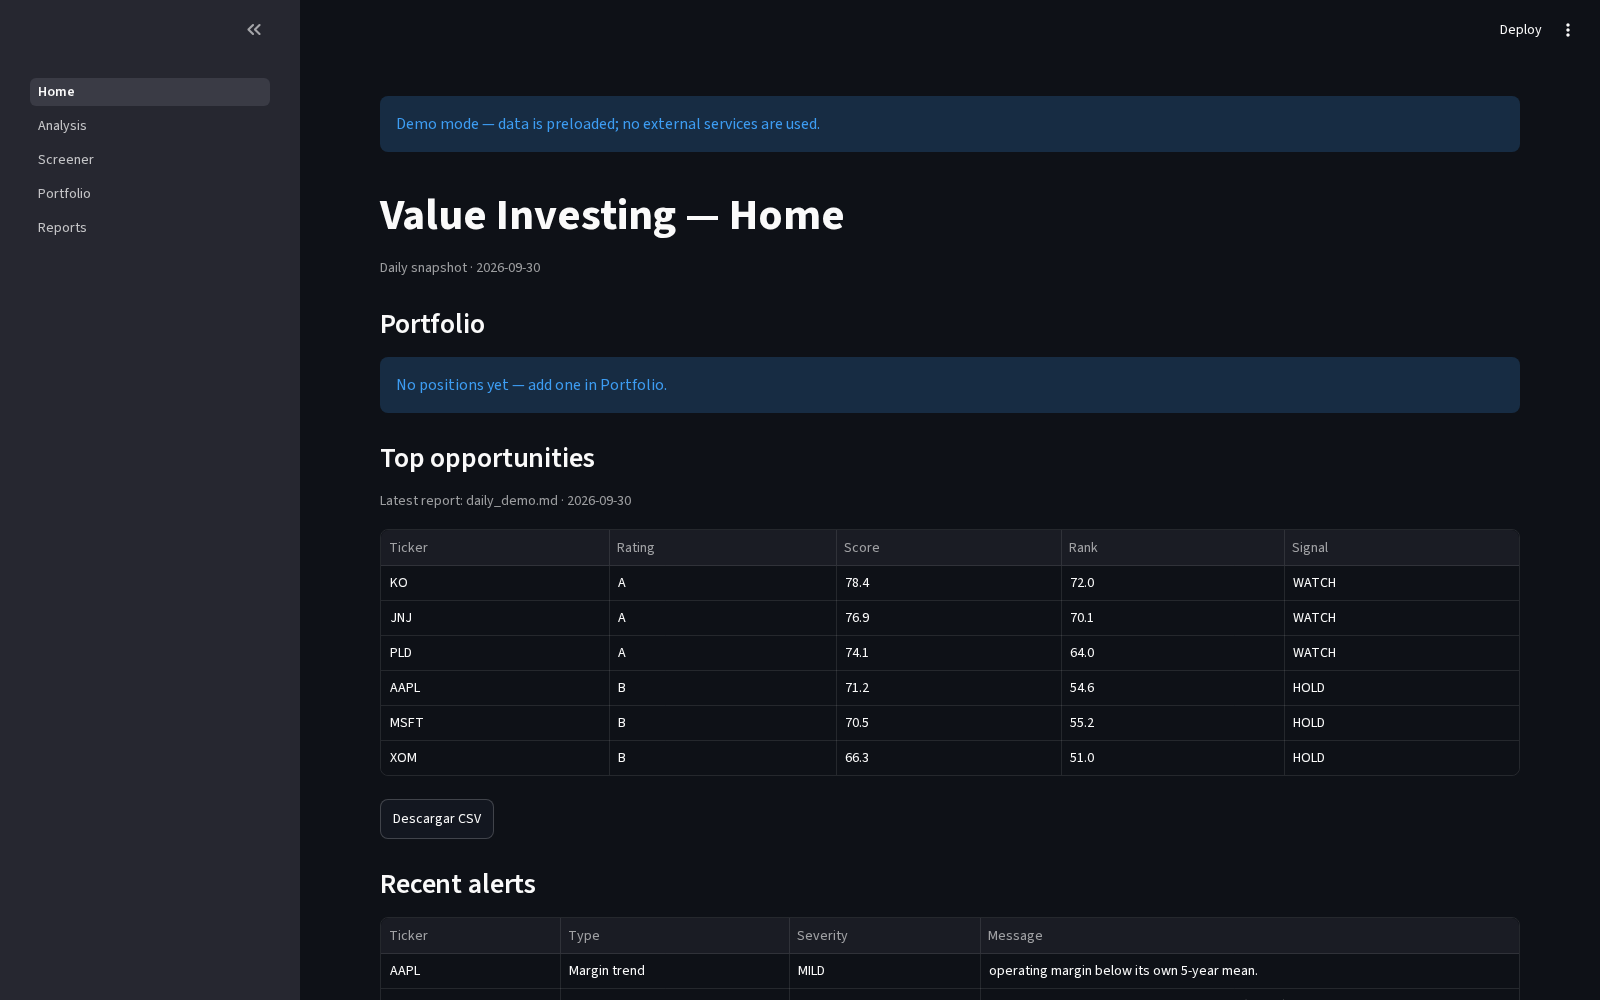
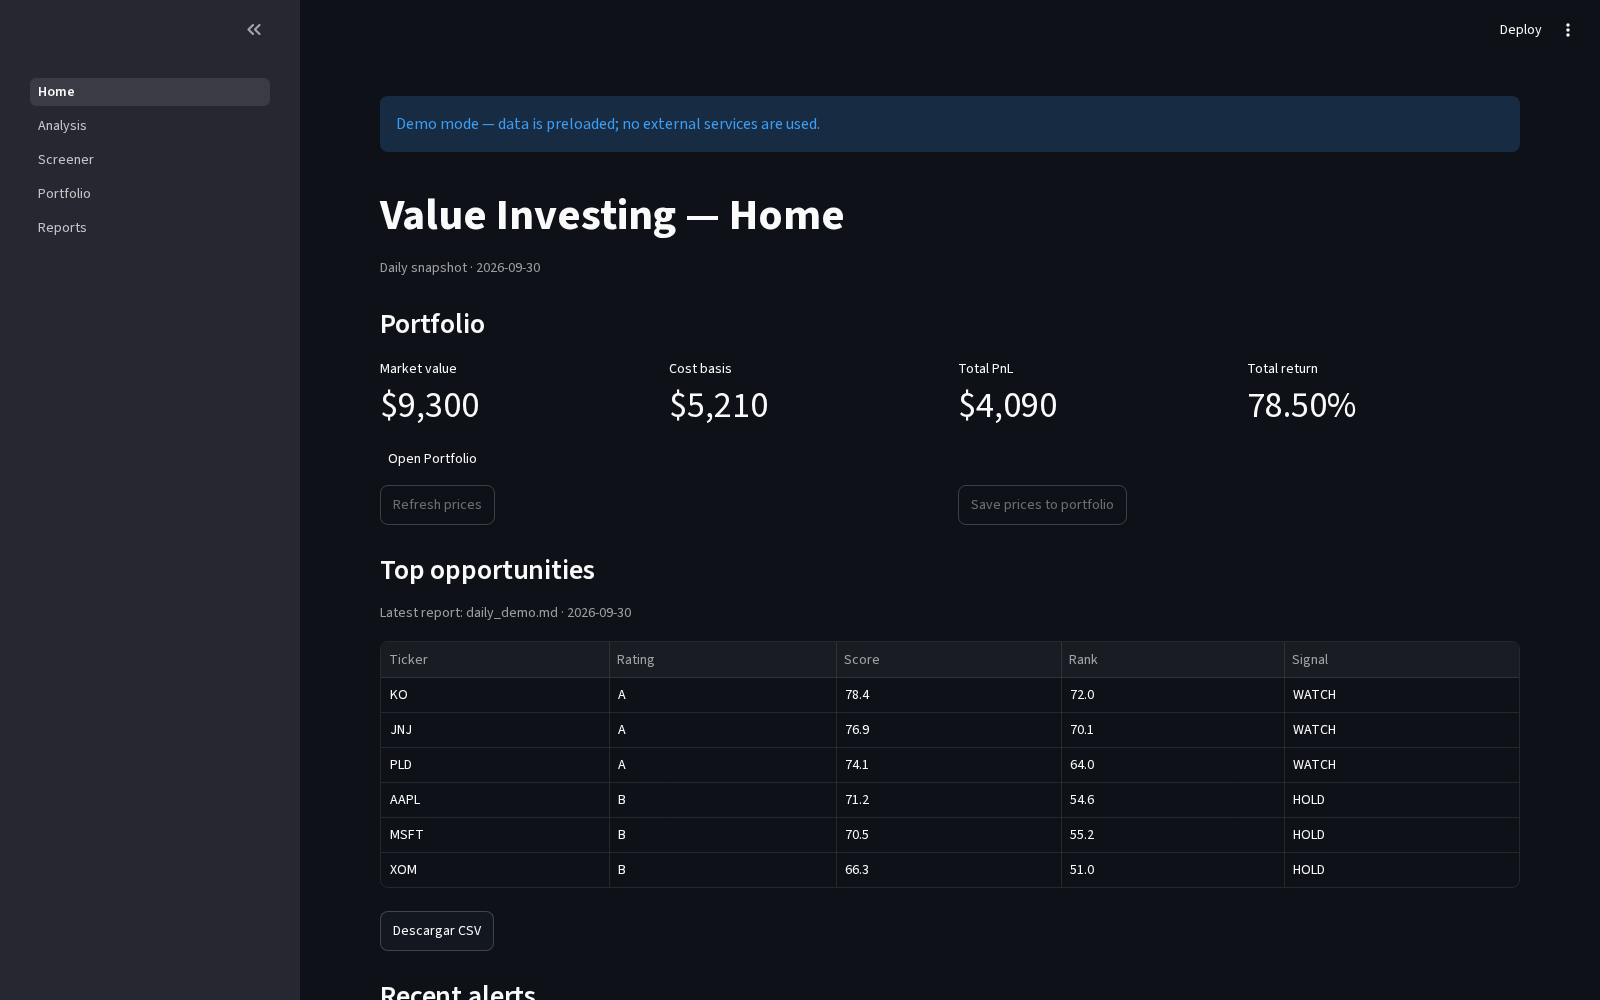
fix(ui): honour demo mode for the portfolio and report paths
The pages read PORTFOLIO_PATH from the environment (set in .env), which
shadowed the demo bundle; in demo mode the pinned portfolio is used
regardless. Screenshots regenerated: Home now shows the three demo
positions (+78.5%), the report rows and alerts, and the disabled price
refresh.

diff --git a/ui/pages/04_portfolio.py b/ui/pages/04_portfolio.py
@@ -45,7 +45,11 @@ def main() -> None:
         "Portfolio",
         "Positions, actions and risk. Prices refresh in memory; saving is explicit.",
     )
-    path = os.environ.get("PORTFOLIO_PATH", DEFAULT_PORTFOLIO_PATH)
+    path = (
+        str(DEMO_PORTFOLIO)
+        if is_demo()
+        else os.environ.get("PORTFOLIO_PATH", DEFAULT_PORTFOLIO_PATH)
+    )
     portfolio = load_portfolio(path)
     if portfolio is None:
         st.error(f"No se pudo leer la cartera en {path}.")

diff --git a/ui/pages/01_home.py b/ui/pages/01_home.py
@@ -46,7 +46,11 @@ def main() -> None:
 
 def _portfolio_summary() -> None:
     st.subheader("Portfolio")
-    path = os.environ.get("PORTFOLIO_PATH", PORTFOLIO_PATH)
+    path = (
+        str(DEMO_PORTFOLIO)
+        if is_demo()
+        else os.environ.get("PORTFOLIO_PATH", PORTFOLIO_PATH)
+    )
     portfolio = load_portfolio(path)
     if portfolio is None:
         st.error(f"No se pudo leer la cartera en {path}.")
